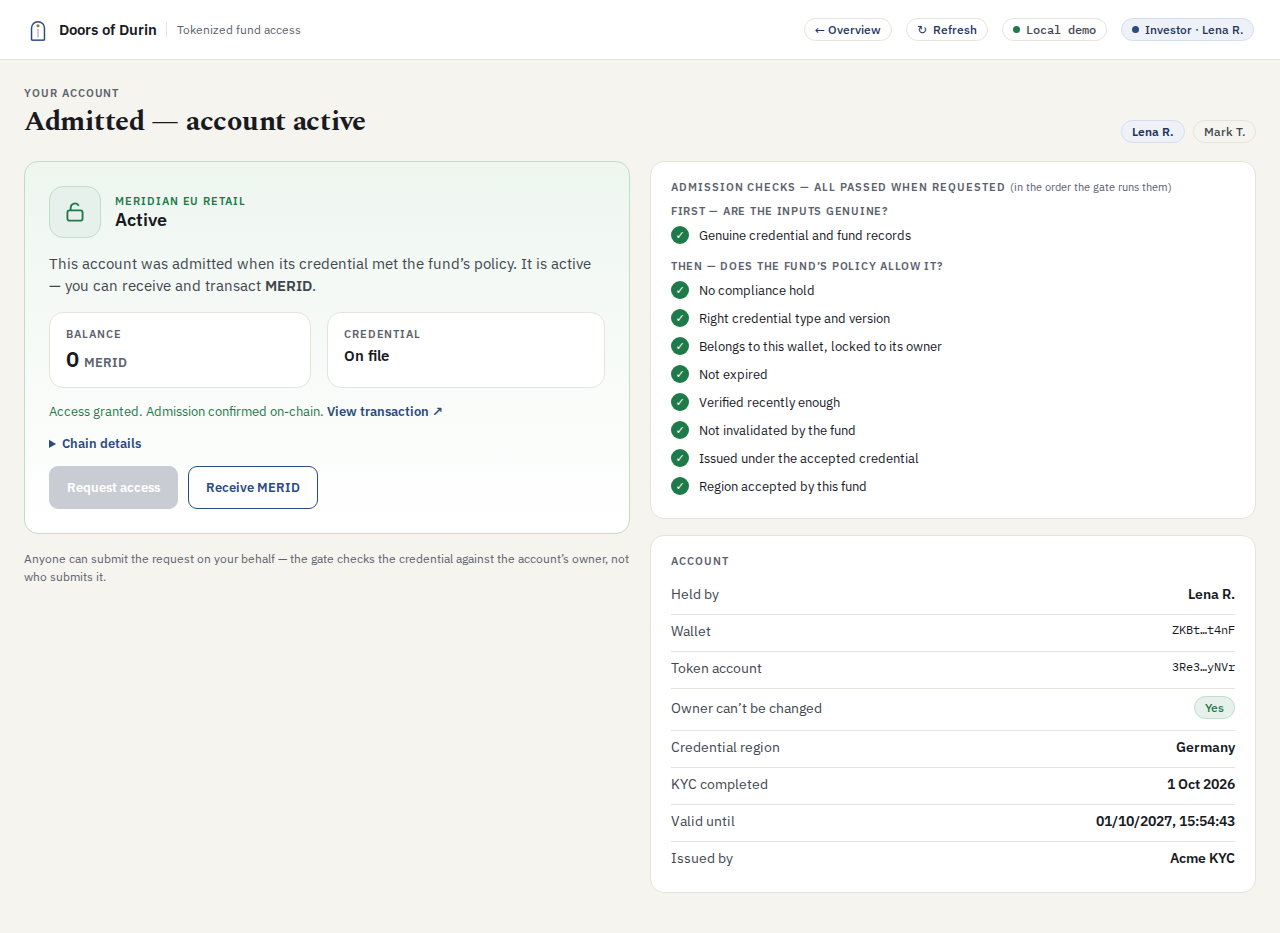
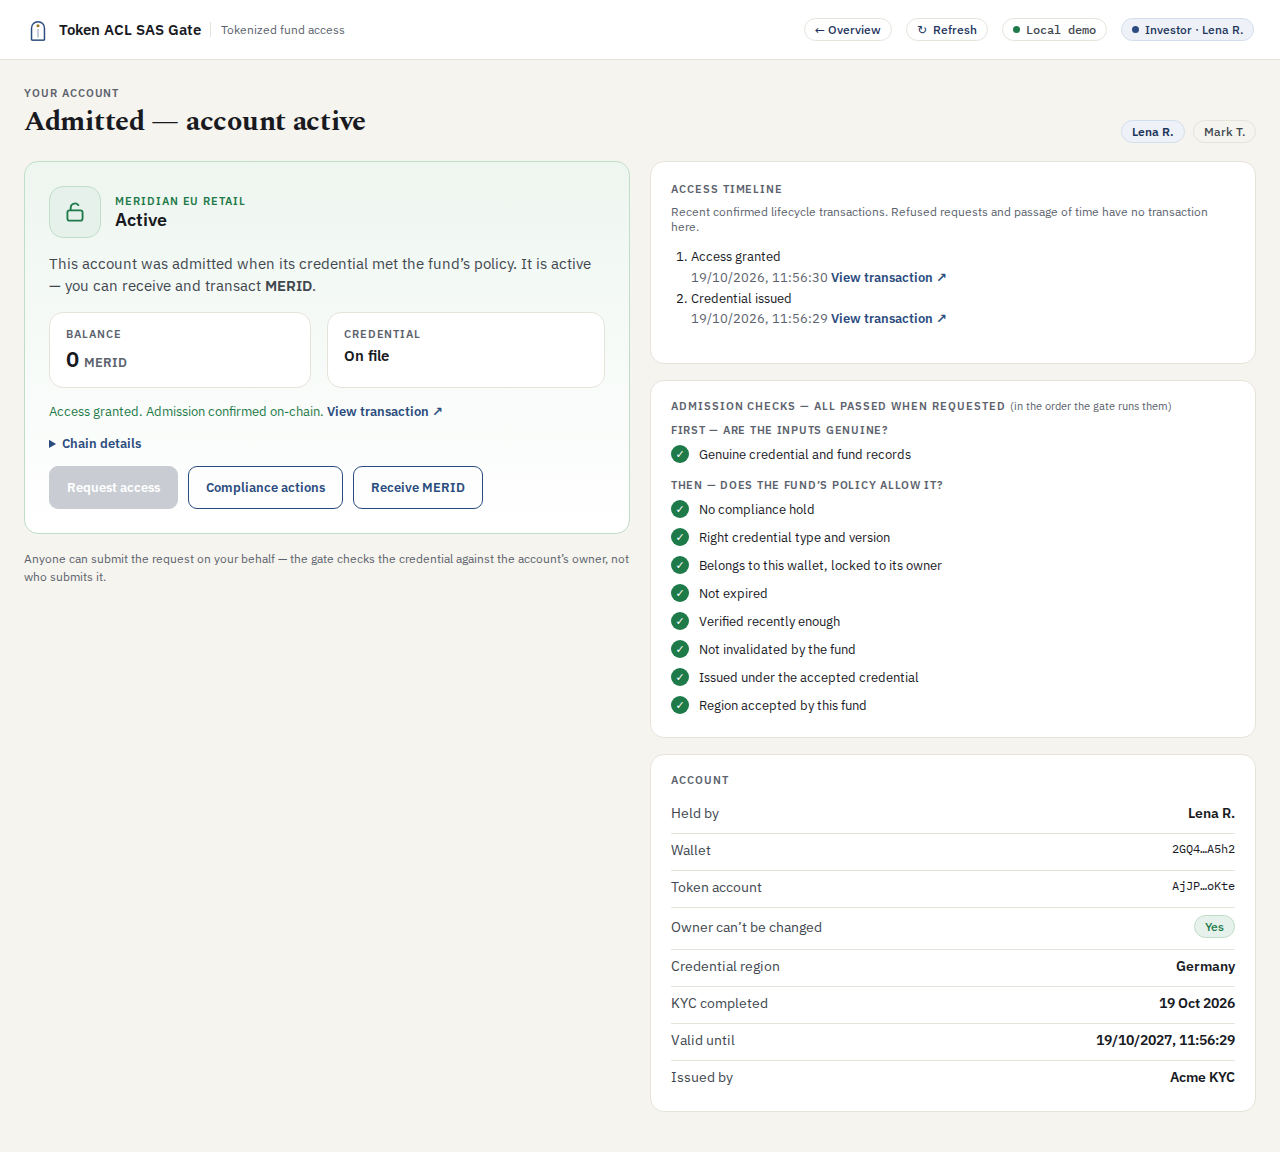
docs: regenerate the README screenshots with a Playwright walk
The screenshots still showed the gate's former name. `mise run screenshots`
(in app/) now builds the site, starts an isolated, freshly seeded surfnet
through the e2e test server, walks the demo, and writes the ten README
screenshots. Each capture waits for the outcome it shows, so a screen that
no longer reaches that state fails the run instead of producing a
misleading image. The walk has its own Playwright config and stays out of
the e2e suite.

Regenerated all ten screenshots with it.

diff --git a/app/screenshots/capture.spec.ts b/app/screenshots/capture.spec.ts
@@ -1,0 +1,76 @@
+import { test, expect, type Page } from "@playwright/test";
+
+// Walks the demo on a freshly seeded, isolated surfnet (scripts/test-server.ts)
+// and writes the README screenshots. Each capture waits for the outcome it
+// shows, so a screen that no longer reaches that state fails here instead of
+// producing a misleading image.
+
+const OUT = "../docs/images/screenshots";
+
+async function capture(page: Page, name: string) {
+  // Keep hover and focus styles out of the image.
+  await page.mouse.move(0, 0);
+  await page.evaluate(() => (document.activeElement as HTMLElement | null)?.blur());
+  await page.screenshot({ path: `${OUT}/${name}.png`, fullPage: true });
+}
+
+async function issue(page: Page, who: "lena" | "mark") {
+  await page.goto("/issuer");
+  await page.getByLabel("Investor wallet — who this credential is for").selectOption(who);
+  await page.getByLabel("Valid until").selectOption("year");
+  await page.getByRole("button", { name: "Issue credential", exact: true }).click();
+  await expect(page.getByRole("status")).toContainText("Credential issued and confirmed");
+}
+
+async function requestAccess(page: Page, who: "lena" | "mark", outcome: string) {
+  await page.goto(`/investor/${who}`);
+  await page.getByRole("button", { name: "Request access" }).click();
+  await expect(page.getByRole("status")).toContainText(outcome);
+}
+
+test("README screenshots", async ({ page }) => {
+  await page.goto("/");
+  await capture(page, "01-overview");
+
+  await page.goto("/operator");
+  for (const step of [
+    "Fund token created",
+    "Access handed to the eligibility gate",
+    "Eligibility checks wired in",
+    "Investors can request access",
+  ])
+    await expect(page.getByText(`${step} — done`)).toBeAttached();
+  await capture(page, "02-operator-fund-setup");
+
+  await page.goto("/authority");
+  await expect(page.getByRole("listitem").filter({ hasText: "Acme KYC" })).toBeVisible();
+  await capture(page, "03-authority");
+
+  await requestAccess(page, "lena", "No credential on file");
+  await capture(page, "04-investor-lena-refused-no-credential");
+
+  await issue(page, "lena");
+  await capture(page, "05-issuer-credential-issued");
+
+  await requestAccess(page, "lena", "Admission confirmed on-chain");
+  await expect(page.getByTestId("account-state")).toHaveText("Active");
+  await capture(page, "06-investor-lena-admitted");
+
+  await page.goto("/operator");
+  await page.getByRole("button", { name: "Allocate 25,000" }).first().click();
+  await expect(page.getByRole("status")).toContainText("25,000 MERID received");
+  await capture(page, "07-operator-allocation-received");
+
+  await issue(page, "mark");
+  await requestAccess(page, "mark", "Region not accepted");
+  await capture(page, "08-investor-mark-denied-region");
+
+  await page.goto("/status");
+  await page.waitForLoadState("networkidle");
+  await capture(page, "09-network-status");
+
+  await page.setViewportSize({ width: 390, height: 844 });
+  await page.goto("/investor/lena");
+  await expect(page.getByTestId("account-state")).toHaveText("Active");
+  await capture(page, "10-phone-investor-lena");
+});

diff --git a/app/playwright.screenshots.config.ts b/app/playwright.screenshots.config.ts
@@ -1,0 +1,11 @@
+import { defineConfig } from "@playwright/test";
+import base from "./playwright.config";
+
+// Regenerates the README screenshots in docs/images/screenshots: `mise run
+// screenshots`. Kept out of the e2e suite, which asserts behaviour rather than
+// pixels; this walk only waits for each screen's outcome before capturing it.
+export default defineConfig({
+  ...base,
+  testDir: "./screenshots",
+  use: { ...base.use, viewport: { width: 1280, height: 860 } },
+});
